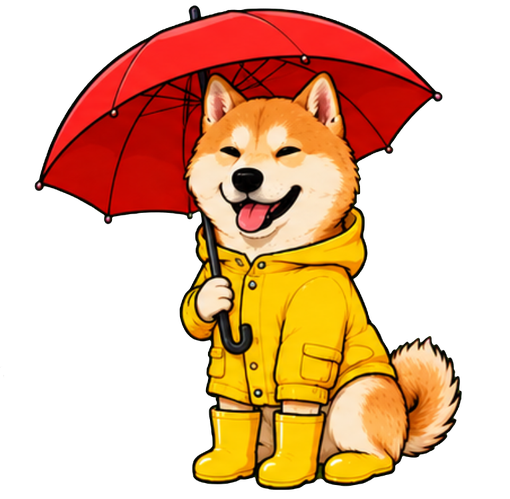
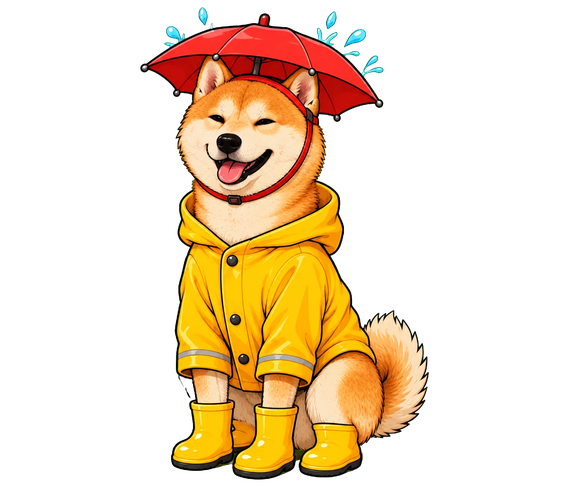
Shiba: 6 nuove versioni (torrido, maglietta, giubbotto, temporale, gelo, dorme d'estate), pioggia col cappello-ombrello, nuove soglie
Claude-Session: https://claude.ai/code/session_01MVBQaHeif1o6Cb6kusdp79

diff --git a/camera.html b/camera.html
@@ -193,7 +193,7 @@
    ===================================================================== */
 // Versione della pagina: cambiarla a ogni modifica pubblicata, così il Pixel
 // si accorge della novità e si ricarica da solo (vedi checkForUpdate).
-const APP_VERSION = '2026-11-27.1';
+const APP_VERSION = '2026-11-28.1';
 
 const CONFIG = {
   WORKER_URL: 'https://meteo-ponte.andrea-marchionni11.workers.dev',  // stesso ponte del salotto
@@ -213,11 +213,15 @@ const CONFIG = {
   // Sensore della camera: se il Worker non passa ancora il sensore (canale ECOWITT_ROOM)…
   INDOOR_DEMO: true,        // se il sensore vero non risponde: true = valori finti (DEMO), false = trattini
 
-  // Shiba: soglie per scegliere il vestito (temperatura esterna)
-  DOG_HOT: 27,        // da qui in su: occhiali da sole e costume
-  DOG_COOL: 16,       // sotto: felpa/maglione
+  // Shiba: soglie per scegliere il vestito (temperatura esterna, °C)
+  DOG_TORRID: 36,     // da qui in su: spossato davanti al ventilatore
+  DOG_HOT: 30,        // da qui in su: occhiali da sole e costume
+  DOG_WARM: 22,       // da qui in su: maglietta a mezze maniche
+  DOG_COOL: 15,       // da qui in su: cappellino e giubbotto di jeans; sotto: felpa
   DOG_COLD: 8,        // sotto: cappotto
-  DOG_WIND: 45,       // raffica in km/h oltre cui è "giornata di vento"
+  DOG_FROST: 0,       // sotto: gelo
+  DOG_WIND: 40,       // raffica in km/h oltre cui è "giornata di vento"
+  DOG_NIGHT_WARM: 22, // di notte, da qui in su (temperatura della camera, se c'è): dorme d'estate
 
   // Comfort della camera da letto
   COMFORT_T: [17, 22],      // °C considerati ideali per dormire
@@ -438,11 +442,18 @@ function renderIndoor() {
    Le immagini vanno nella cartella shiba/ con questi nomi (PNG con sfondo
    trasparente). Se un'immagine manca uso shiba/normale.png, e se manca anche
    quella mostro un segnaposto (emoji). Prove: ?shiba=pioggia (forza uno stato).
-   Ordine di precedenza: notte > pioggia > neve > vento > caldo > freddo > fresco > normale
+   Ordine di precedenza: notte (dorme / dorme-estate) > temporale > pioggia > neve > vento >
+   temperatura (torrido > caldo > maglietta > giubbotto > fresco > freddo > gelo) > normale
    ===================================================================== */
 const DOG_STATES = {
   dorme:   { cap: 'Buonanotte',       acc: '💤' },
+  'dorme-estate': { cap: 'Buonanotte',  acc: '💤' },
+  temporale: { cap: 'Temporale',      acc: '⛈' },
   pioggia: { cap: 'Piove: ombrello!', acc: '☂' },
+  torrido: { cap: 'Che afa!',         acc: '🥵' },
+  maglietta: { cap: 'Si sta bene',    acc: '👕' },
+  giubbotto: { cap: 'Mezza stagione', acc: '🧢' },
+  gelo:    { cap: 'Si gela',          acc: '🥶' },
   neve:    { cap: 'Nevica',           acc: '❄' },
   vento:   { cap: 'Che vento',        acc: '💨' },
   caldo:   { cap: 'Fa caldo',         acc: '🕶' },
@@ -454,24 +465,36 @@ let nowSky = null;   // condizioni dell'ora in corso dalla previsione: { icon, p
 function dogState() {
   const f = params.get('shiba');
   if (f && DOG_STATES[f]) return f;
-  if (document.body.classList.contains('night')) return 'dorme';
   const d = station, obs = d ? parseUtc(d.observation_time_utc) : null;
   const fresh = obs && (Date.now() - obs) / 60e3 <= CONFIG.STALE_MIN;
   const T = fresh ? num(d.temperature) : null;
+  if (document.body.classList.contains('night')) {
+    // notte calda (in camera, o fuori se il sensore della camera non c'è): dorme d'estate
+    const r = readIndoor(), tn = r && !r.demo ? r.temp : T;
+    return tn !== null && tn >= CONFIG.DOG_NIGHT_WARM ? 'dorme-estate' : 'dorme';
+  }
   const rr = fresh ? num(d.rain_rate) : null;
   const gust = fresh ? num(d.wind_gust) : null;      // nota: è la raffica massima di oggi
   const ws = fresh ? num(d.wind_speed) : null;
   const sky = nowSky ? nowSky.icon : '';
   const snowSky = sky.includes('snow') || sky === 'sleet';
+  if (sky.includes('thunder')) return 'temporale';                         // temporale previsto nell'ora in corso
   if (rr !== null && rr > 0) return T !== null && T <= 1 ? 'neve' : 'pioggia';
   if (snowSky) return 'neve';
   if (/rain|showers|thunder/.test(sky) && (rr === null)) return 'pioggia';   // senza stazione mi fido della previsione
   if (ws !== null && ws >= CONFIG.DOG_WIND * 0.6 && gust !== null && gust >= CONFIG.DOG_WIND) return 'vento';
   if (T === null) return 'normale';
+  return dogByTemp(T);
+}
+// Vestito secondo la temperatura esterna
+function dogByTemp(T) {
+  if (T >= CONFIG.DOG_TORRID) return 'torrido';
   if (T >= CONFIG.DOG_HOT) return 'caldo';
-  if (T < CONFIG.DOG_COLD) return 'freddo';
-  if (T < CONFIG.DOG_COOL) return 'fresco';
-  return 'normale';
+  if (T >= CONFIG.DOG_WARM) return 'maglietta';
+  if (T >= CONFIG.DOG_COOL) return 'giubbotto';
+  if (T >= CONFIG.DOG_COLD) return 'fresco';
+  if (T >= CONFIG.DOG_FROST) return 'freddo';
+  return 'gelo';
 }
 let dogShown = '';
 function renderDog() {

diff --git a/index.html b/index.html
@@ -499,7 +499,7 @@
    ===================================================================== */
 // Versione della pagina: va cambiata a ogni modifica pubblicata, così il tablet
 // si accorge della novità e si ricarica da solo (vedi checkForUpdate più sotto).
-const APP_VERSION = '2026-11-27.1';
+const APP_VERSION = '2026-11-28.1';
 
 const CONFIG = {
   // Indirizzo del tuo Cloudflare Worker (il "ponte"), es.
@@ -521,11 +521,14 @@ const CONFIG = {
   FORECAST_BARS: true,   // false = nasconde le barre orarie della pioggia sotto il radar
   BAR_HOURS: 3,          // quante ore di previsione mostrare dopo la barra "Ora"
 
-  // Shiba nel riquadro della pioggia: soglie per il vestito (temperatura della stazione)
-  DOG_HOT: 27,           // da qui in su: occhiali da sole e costume
-  DOG_COOL: 16,          // sotto: felpa
-  DOG_COLD: 8,           // sotto: cappotto
-  DOG_WIND: 45,          // raffica (km/h) oltre cui è "giornata di vento"
+  // Shiba: soglie per scegliere il vestito (temperatura esterna, °C)
+  DOG_TORRID: 36,     // da qui in su: spossato davanti al ventilatore
+  DOG_HOT: 30,        // da qui in su: occhiali da sole e costume
+  DOG_WARM: 22,       // da qui in su: maglietta a mezze maniche
+  DOG_COOL: 15,       // da qui in su: cappellino e giubbotto di jeans; sotto: felpa
+  DOG_COLD: 8,        // sotto: cappotto
+  DOG_FROST: 0,       // sotto: gelo
+  DOG_WIND: 40,       // raffica in km/h oltre cui è "giornata di vento"
 };
 
 /* ===================================================================== */
@@ -1363,7 +1366,8 @@ function renderAlert() {
    pioggia > neve > vento > caldo > freddo > fresco > normale.
    Prova di uno stato: ?shiba=caldo
    ===================================================================== */
-const DOG_STATES = ['pioggia', 'neve', 'vento', 'caldo', 'freddo', 'fresco', 'normale', 'dorme'];
+// precedenza: temporale > pioggia > neve > vento > temperatura (torrido … gelo) > normale
+const DOG_STATES = ['temporale', 'pioggia', 'neve', 'vento', 'torrido', 'caldo', 'maglietta', 'giubbotto', 'fresco', 'freddo', 'gelo', 'normale', 'dorme', 'dorme-estate'];
 function dogState() {
   const f = params.get('shiba');
   if (f && DOG_STATES.includes(f)) return f;
@@ -1373,16 +1377,24 @@ function dogState() {
   const now = Date.now();
   const cur = slots ? slots.find(s => s.start <= now && s.end > now) : null;
   const sky = (cur && cur.icon) || '';
+  if (sky.includes('thunder')) return 'temporale';   // temporale previsto nell'ora in corso
   if (stationRainNow()) return T !== null && T <= 1 ? 'neve' : 'pioggia';
   if (sky.includes('snow') || sky === 'sleet') return 'neve';
   if (!rainFresh(d) && cur && isWetHour(cur)) return 'pioggia';   // senza pluviometro mi fido della previsione
   const ws = fresh ? num(d.wind_speed) : null, wg = fresh ? num(d.wind_gust) : null;
   if (ws !== null && ws >= CONFIG.DOG_WIND * 0.6 && wg !== null && wg >= CONFIG.DOG_WIND) return 'vento';
   if (T === null) return 'normale';
+  return dogByTemp(T);
+}
+// Vestito secondo la temperatura esterna
+function dogByTemp(T) {
+  if (T >= CONFIG.DOG_TORRID) return 'torrido';
   if (T >= CONFIG.DOG_HOT) return 'caldo';
-  if (T < CONFIG.DOG_COLD) return 'freddo';
-  if (T < CONFIG.DOG_COOL) return 'fresco';
-  return 'normale';
+  if (T >= CONFIG.DOG_WARM) return 'maglietta';
+  if (T >= CONFIG.DOG_COOL) return 'giubbotto';
+  if (T >= CONFIG.DOG_COLD) return 'fresco';
+  if (T >= CONFIG.DOG_FROST) return 'freddo';
+  return 'gelo';
 }
 let dogShown = '';
 function renderDog() {

diff --git a/PROGETTO.md b/PROGETTO.md
@@ -173,6 +173,7 @@ Aggiungere all'indirizzo: `?demo=1` (dati di esempio), `?demo=stale` (dato vecch
 Pagina separata `camera.html` (indirizzo: https://meteo-marchionni.pages.dev/camera.html), aggiunta il 25/11/2026. Non tocca `index.html` e usa lo **stesso Worker** (stessa origine, quindi `ALLOWED_ORIGINS` non va cambiato).
 
 - **Layout (orizzontale, pensato per 914×411 px CSS):** a sinistra riquadro **Fuori** (temperatura con freccia della tendenza, umidità, min/max); al centro lo **Shiba** con sotto ora e data piccole (opzione scelta il 25/11/2026: la precedenza resta alle temperature); a destra riquadro **Camera** (temperatura, umidità, giudizio di comfort). In basso una striscia con pressione e tendenza, previsione di domani e dopodomani (Visual Crossing, riserva Open-Meteo), alba e tramonto; nell'angolo il pallino dello schermo sempre acceso.
+- **Shiba, versione del 28/11/2026** (vale per camera e salotto; sostituisce le fasce descritte sotto): 15 immagini in `shiba/`. Precedenza: notte → `dorme` oppure `dorme-estate` (se la camera, o fuori in mancanza del sensore, è ≥ `DOG_NIGHT_WARM` 22 °C; solo Pixel) · `temporale` (previsione dell'ora in corso con temporale) · `pioggia` (cappello-ombrello: l'ombrello tenuto con la zampa usciva sempre con 5 zampe) · `neve` · `vento` (raffica ≥ `DOG_WIND` 40) · temperatura esterna: ≥36 `torrido` (ventilatore) · ≥30 `caldo` · ≥22 `maglietta` · ≥15 `giubbotto` (jeans e cappellino) · ≥8 `fresco` · ≥0 `freddo` · sotto `gelo` (soglie `DOG_TORRID`, `DOG_HOT`, `DOG_WARM`, `DOG_COOL`, `DOG_COLD`, `DOG_FROST`). `normale` resta solo se manca la temperatura. La nebbia è stata scartata (la stazione non la misura e la previsione non è affidabile).
 - **Shiba vestito secondo il tempo:** immagini PNG con sfondo trasparente nella cartella `shiba/`: `pioggia`, `neve`, `vento`, `caldo`, `freddo`, `fresco`, `normale`, `dorme` (`.png`). Precedenza: notte → `dorme`; stazione che misura pioggia (`rain_rate` > 0, oppure neve se ≤ 1 °C) → `pioggia`; previsione dell'ora in corso con neve → `neve`; con pioggia, solo se la stazione non dà il dato → `pioggia`; vento medio ≥ 60% di `DOG_WIND` e raffica ≥ `DOG_WIND` → `vento`; poi temperatura esterna: ≥ `DOG_HOT` (27) `caldo`, < `DOG_COLD` (8) `freddo`, < `DOG_COOL` (16) `fresco`, altrimenti `normale`. Immagini ricavate il 25/11/2026 da un unico "foglio" (rigenerato lo stesso giorno: nella prima versione lo Shiba con l’ombrello aveva 5 zampe; ritaglio con margine oltre la cella per non tagliare le code) generato con le foto del cane (sfondo verde tolto, stessa inquadratura per tutte, circa 480×490 px). Colonna centrale stretta (`1fr 0.62fr 1fr`) per dare la precedenza alle temperature; didascalia nascosta. Se un’immagine manca si usa `normale.png`, e se manca anche quella un segnaposto con le emoji. Di notte l'immagine è grigia e scura. Prova di uno stato: `?shiba=pioggia`.
 - **Dati della camera inventati** finché non c'è il GW1200: `CONFIG.INDOOR_DEMO: true` (valori che oscillano lentamente, etichetta "DEMO"). Da collegare al sensore interno tramite il Worker.
 - **Modalità notte** (`NIGHT_FROM`–`NIGHT_TO`, predefinito 22:30–07:00): niente riquadri né striscia, testo rosso tenue su nero, emoji spente. Un tocco mostra la vista di giorno per `NIGHT_PEEK_S` secondi. Prove: `?night=1` / `?night=0`.
